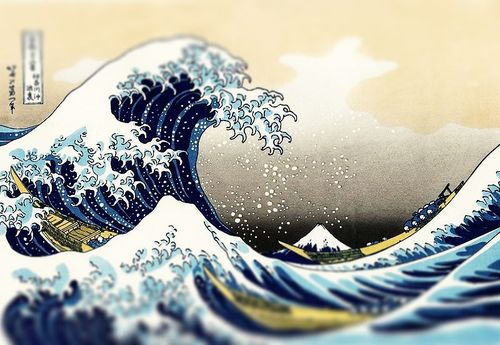
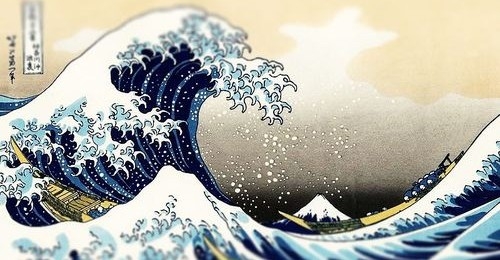
Posts style

diff --git a/media/css/style.css b/media/css/style.css
@@ -142,13 +142,13 @@ pre, code {
 }
 
 
-/* specific block styles */
+/* specific block styles used in layouts */
 .container {
     margin: 0.5em auto 2em auto;
     width: 40em; padding: 0.1em 2em;
     background-color: #fff;
     border-radius: 5px 5px 5px 5px;
-    box-shadow: 0 2px 5px 2px #444444;
+    box-shadow: 0 2px 5px 2px #999;
 }
 
 #header {
@@ -157,6 +157,7 @@ pre, code {
 
 #header img {
     width: 40em;
+    border: none !important;
 }
 
 #nav {
@@ -184,7 +185,7 @@ pre, code {
     margin: 1em 0;
 }
 
-.items .date {
+.date {
     font-family: "Courier New", monospace;
     font-size: 0.9em;
 }
@@ -192,6 +193,21 @@ pre, code {
 footer {
     border-top: 2px solid #84a90e;
     padding: 0.2em 0;
+}
+
+.post-header {
+    text-align: center;
+    border-bottom: 1px solid #84A90E;
+    padding: 0.2em 0;
+}
+
+.post-date {
+    display: block;
+    padding: 0.2em 0;
+}
+
+.post-content p {
+    padding: 0.5em 0;
 }
 
 
@@ -208,6 +224,14 @@ footer {
     float: left;
 }
 
+.left img {
+    padding-right: 0.2em;
+}
+
 .right {
     float: right;
+}
+
+.right img {
+    padding-left: 0.2em;
 }

diff --git a/_layouts/master.html b/_layouts/master.html
@@ -3,7 +3,7 @@
 <head>
     <meta http-equiv="content-type" content="text/html; charset=utf-8" />
     <title>{{ site.title }}</title>
-    <link rel="stylesheet" href="/media/css/style.css" type="text/css" media="screen"/>
+     <link rel="stylesheet" href="/media/css/style.css" type="text/css" media="screen"/>
 </head>
 <body>
     <div class="container">
@@ -11,7 +11,7 @@
         <!-- site header -->
         <div id="header">
             <!-- <h1><a href="/">{{ site.title }}</a></h1> -->
-            <img src="/media/img/greatwave2.jpg" />
+            <img src="/media/img/greatwave.jpg" />
         </div>
 
         <!-- navigation -->

diff --git a/_layouts/post.html b/_layouts/post.html
@@ -1,12 +1,12 @@
 ---
 layout: master
 ---
-<div class="">
-  <div class="">
-    <span class=""><a href={{ page.url }}>{{ page.title}}</a></span>
-    <span class="">{{ page.date | date: "%B %d, %Y" }}</span>
+<div class="post">
+  <div class="post-header">
+    <span class="post-title"><a href={{ page.url }}>{{ page.title}}</a></span>
+    <span class="post-date date">{{ page.date | date: "%B %d, %Y" }}</span>
   </div>
-  <div>
+  <div class="post-content">
   {{ content }}
   </div>
 </div>
